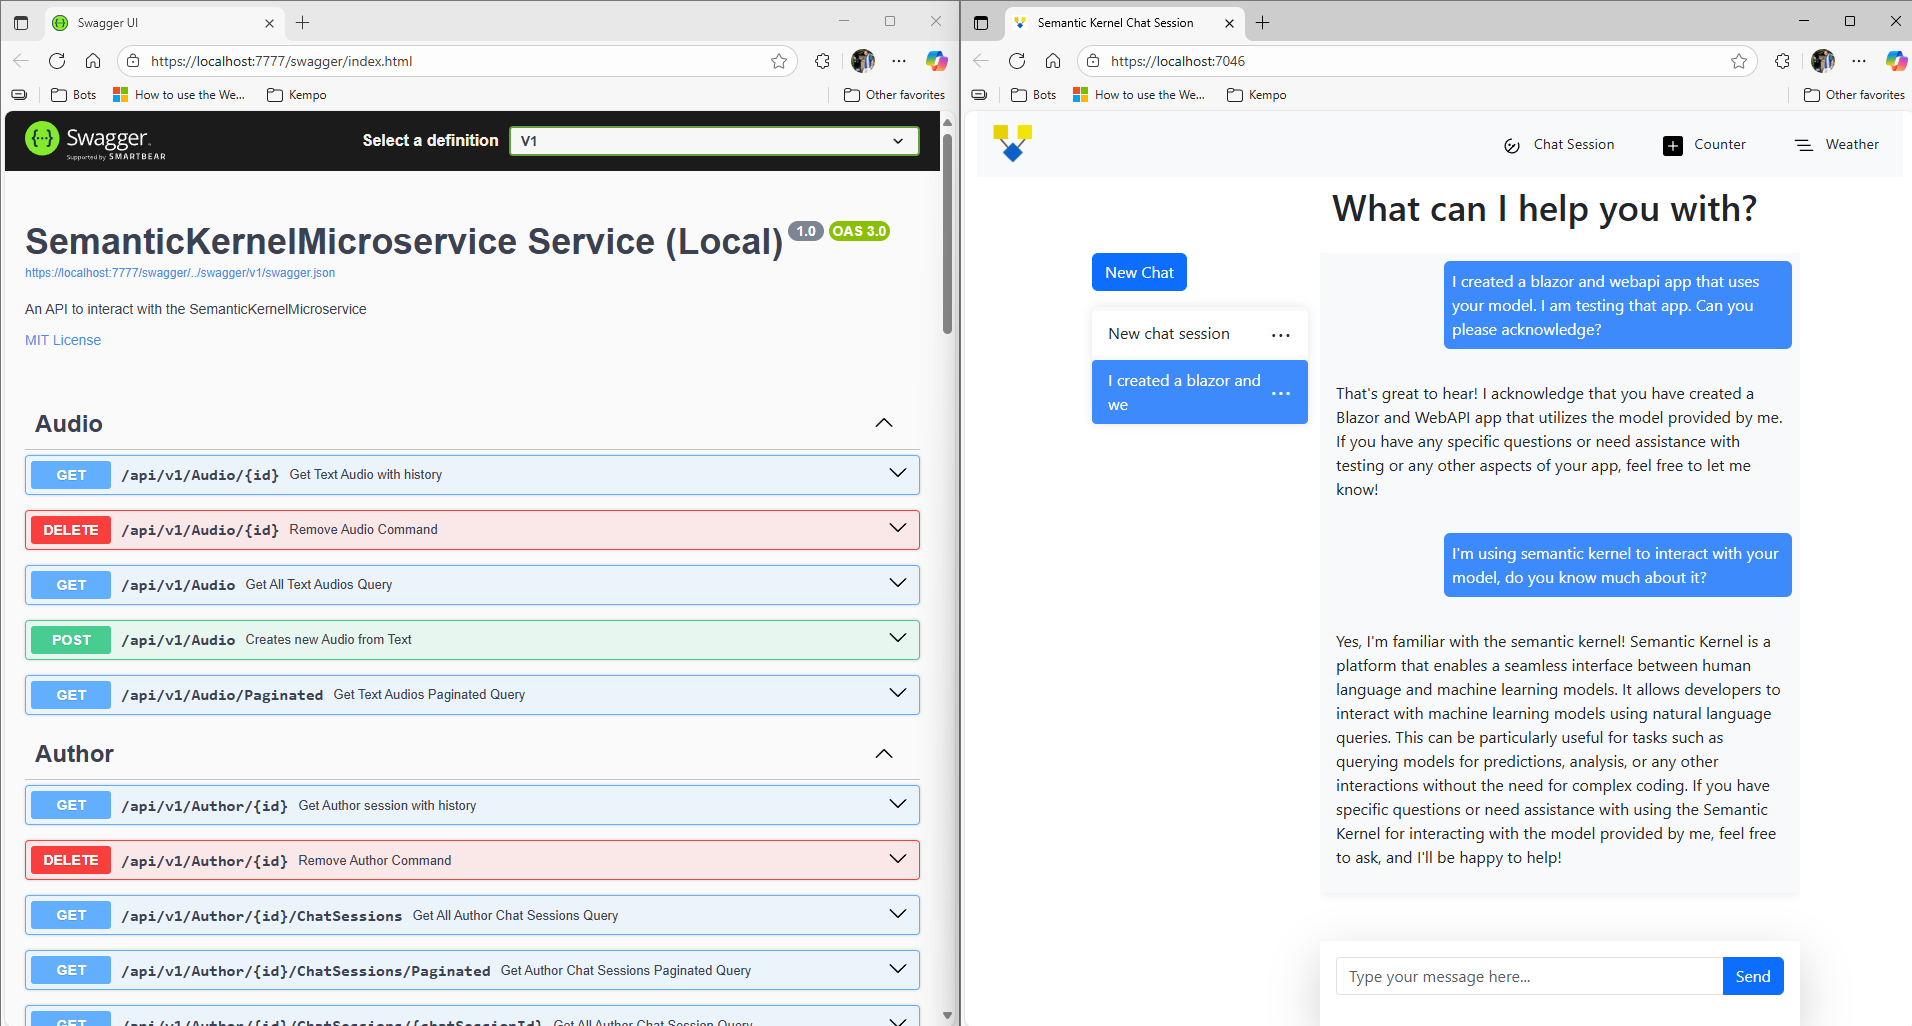
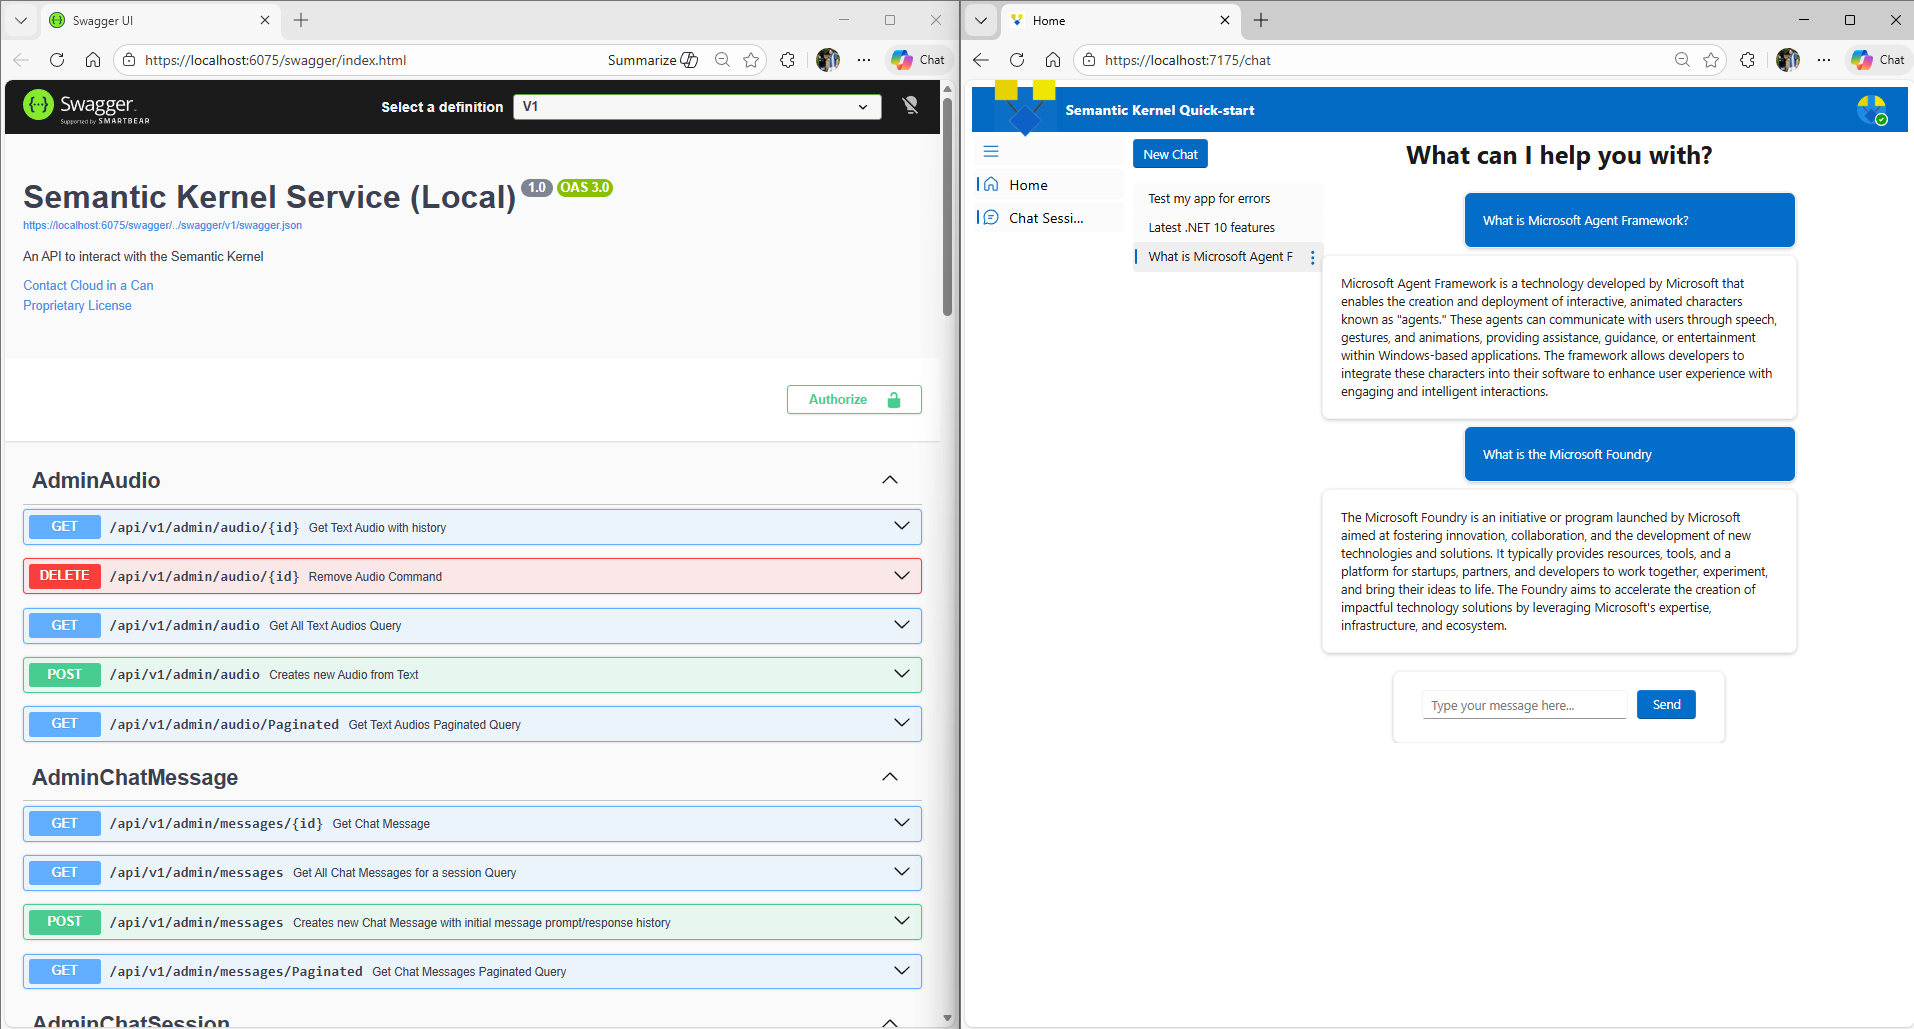
135 refresh vs marketplace 20 template (#136)
* namespace

* removed aspects

diff --git a/src/Presentation.Blazor/ConfigureServices.cs b/src/Presentation.Blazor/ConfigureServices.cs
@@ -1,5 +1,5 @@
-using Cannery.Aspects.Components.Auth;
-using Cannery.Aspects.Components.Auth.Services;
+using Goodtocode.SemanticKernel.Presentation.Blazor.Components.Auth;
+using Goodtocode.SemanticKernel.Presentation.Blazor.Components.Auth.Services;
 using Goodtocode.SemanticKernel.Presentation.Blazor.Options;
 using Goodtocode.SemanticKernel.Presentation.Blazor.Pages.Chat.Services;
 using Goodtocode.SemanticKernel.Presentation.Blazor.Services;

diff --git a/src/Presentation.Blazor/Services/UserSyncService.cs b/src/Presentation.Blazor/Services/UserSyncService.cs
@@ -1,8 +1,8 @@
 using Goodtocode.SemanticKernel.Presentation.WebApi.Client;
 using System.Security.Authentication;
 using System.Security.Claims;
-using Cannery.Aspects.Components.Auth.Services;
-using Cannery.Aspects.Components.Auth;
+using Goodtocode.SemanticKernel.Presentation.Blazor.Components.Auth.Services;
+using Goodtocode.SemanticKernel.Presentation.Blazor.Components.Auth;
 
 namespace Goodtocode.SemanticKernel.Presentation.Blazor.Services;
 

diff --git a/src/Presentation.Blazor/Components/Auth/Middleware/DownstreamApiAccessTokenProvider.cs b/src/Presentation.Blazor/Components/Auth/Middleware/DownstreamApiAccessTokenProvider.cs
@@ -3,7 +3,7 @@ using Microsoft.AspNetCore.Http;
 using Microsoft.Extensions.Configuration;
 using Microsoft.Identity.Web;
 
-namespace Cannery.Aspects.Components.Auth.Middleware;
+namespace Goodtocode.SemanticKernel.Presentation.Blazor.Components.Auth.Middleware;
 
 public class DownstreamApiAccessTokenProvider(IHttpContextAccessor httpContextAccessor, ITokenAcquisition tokenAcquisition, IConfiguration configuration) : IAccessTokenProvider
 {

diff --git a/src/Presentation.Blazor/ConfigureServicesAuth.cs b/src/Presentation.Blazor/ConfigureServicesAuth.cs
@@ -1,5 +1,5 @@
-using Cannery.Aspects.Components.Auth.Middleware;
-using Cannery.Aspects.Components.Auth.Services;
+using Goodtocode.SemanticKernel.Presentation.Blazor.Components.Auth.Middleware;
+using Goodtocode.SemanticKernel.Presentation.Blazor.Components.Auth.Services;
 using Goodtocode.SemanticKernel.Presentation.Blazor.Options;
 using Goodtocode.SecuredHttpClient.Middleware;
 using Goodtocode.SecuredHttpClient.Options;

diff --git a/src/Presentation.Blazor/Pages/Chat/Services/ChatService.cs b/src/Presentation.Blazor/Pages/Chat/Services/ChatService.cs
@@ -1,6 +1,6 @@
 using Goodtocode.SemanticKernel.Presentation.WebApi.Client;
 using Goodtocode.SemanticKernel.Presentation.Blazor.Services;
-using Cannery.Aspects.Components.Auth;
+using Goodtocode.SemanticKernel.Presentation.Blazor.Components.Auth;
 using Goodtocode.SemanticKernel.Presentation.Blazor.Pages.Chat.Models;
 
 namespace Goodtocode.SemanticKernel.Presentation.Blazor.Pages.Chat.Services;

diff --git a/src/Presentation.Blazor/Components/Auth/Middleware/MsGraphAccessTokenProvider.cs b/src/Presentation.Blazor/Components/Auth/Middleware/MsGraphAccessTokenProvider.cs
@@ -3,7 +3,7 @@ using Microsoft.AspNetCore.Authentication;
 using Microsoft.AspNetCore.Authentication.OpenIdConnect;
 using Microsoft.AspNetCore.Http;
 
-namespace Cannery.Aspects.Components.Auth.Middleware;
+namespace Goodtocode.SemanticKernel.Presentation.Blazor.Components.Auth.Middleware;
 
 public class MsGraphAccessTokenProvider(IHttpContextAccessor httpContextAccessor) : IAccessTokenProvider
 {

diff --git a/src/Presentation.Blazor/Program.cs b/src/Presentation.Blazor/Program.cs
@@ -1,5 +1,5 @@
 using Azure.Monitor.OpenTelemetry.AspNetCore;
-using Cannery.Aspects.Components.Auth.Routing;
+using Goodtocode.SemanticKernel.Presentation.Blazor.Components.Auth.Routing;
 using Goodtocode.SemanticKernel.Presentation.Blazor;
 using Goodtocode.SemanticKernel.Presentation.Blazor.Components;
 using Microsoft.AspNetCore.HttpOverrides;

diff --git a/src/Presentation.Blazor/Components/Auth/Routing/LoginLogoutEndpointRouteBuilderExtensions.cs b/src/Presentation.Blazor/Components/Auth/Routing/LoginLogoutEndpointRouteBuilderExtensions.cs
@@ -5,7 +5,7 @@ using Microsoft.AspNetCore.Builder;
 using Microsoft.AspNetCore.Http;
 using Microsoft.AspNetCore.Routing;
 
-namespace Cannery.Aspects.Components.Auth.Routing;
+namespace Goodtocode.SemanticKernel.Presentation.Blazor.Components.Auth.Routing;
 
 public static class LoginLogoutEndpointRouteBuilderExtensions
 {

diff --git a/src/Presentation.Blazor/Components/Auth/UserClaimsInfo.cs b/src/Presentation.Blazor/Components/Auth/UserClaimsInfo.cs
@@ -1,6 +1,6 @@
 using Microsoft.AspNetCore.Http;
 
-namespace Cannery.Aspects.Components.Auth;
+namespace Goodtocode.SemanticKernel.Presentation.Blazor.Components.Auth;
 
 /// <summary>
 /// User information implementation that retrieves data from the current HTTP context.

diff --git a/src/Presentation.Blazor/Components/Auth/IUserClaimsInfo.cs b/src/Presentation.Blazor/Components/Auth/IUserClaimsInfo.cs
@@ -1,4 +1,4 @@
-namespace Cannery.Aspects.Components.Auth;
+namespace Goodtocode.SemanticKernel.Presentation.Blazor.Components.Auth;
 
 /// <summary>
 /// Represents a user's information, including identifiers, personal details, and contact information.

diff --git a/src/Presentation.Blazor/Components/Auth/Services/IUserSyncService.cs b/src/Presentation.Blazor/Components/Auth/Services/IUserSyncService.cs
@@ -1,6 +1,6 @@
 using System.Security.Claims;
 
-namespace Cannery.Aspects.Components.Auth.Services;
+namespace Goodtocode.SemanticKernel.Presentation.Blazor.Components.Auth.Services;
 
 public interface IUserSyncService
 {

diff --git a/src/Presentation.Blazor/Components/Auth/Routing/RouteConstants.cs b/src/Presentation.Blazor/Components/Auth/Routing/RouteConstants.cs
@@ -1,4 +1,4 @@
-namespace Cannery.Aspects.Components.Auth.Routing;
+namespace Goodtocode.SemanticKernel.Presentation.Blazor.Components.Auth.Routing;
 
 public partial struct RouteConstants
 {
